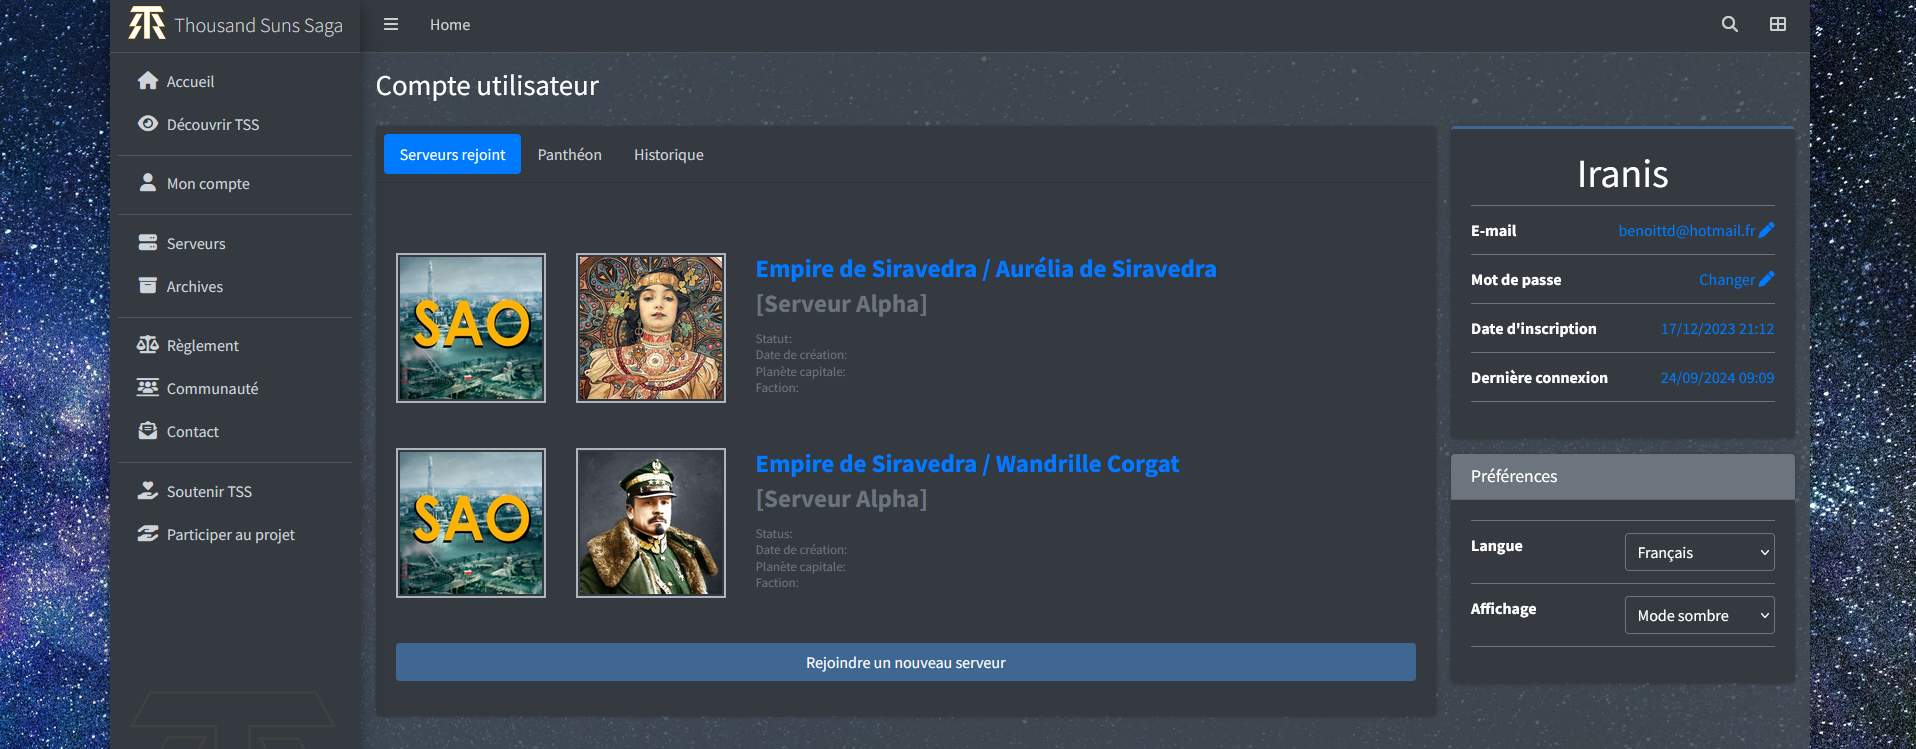
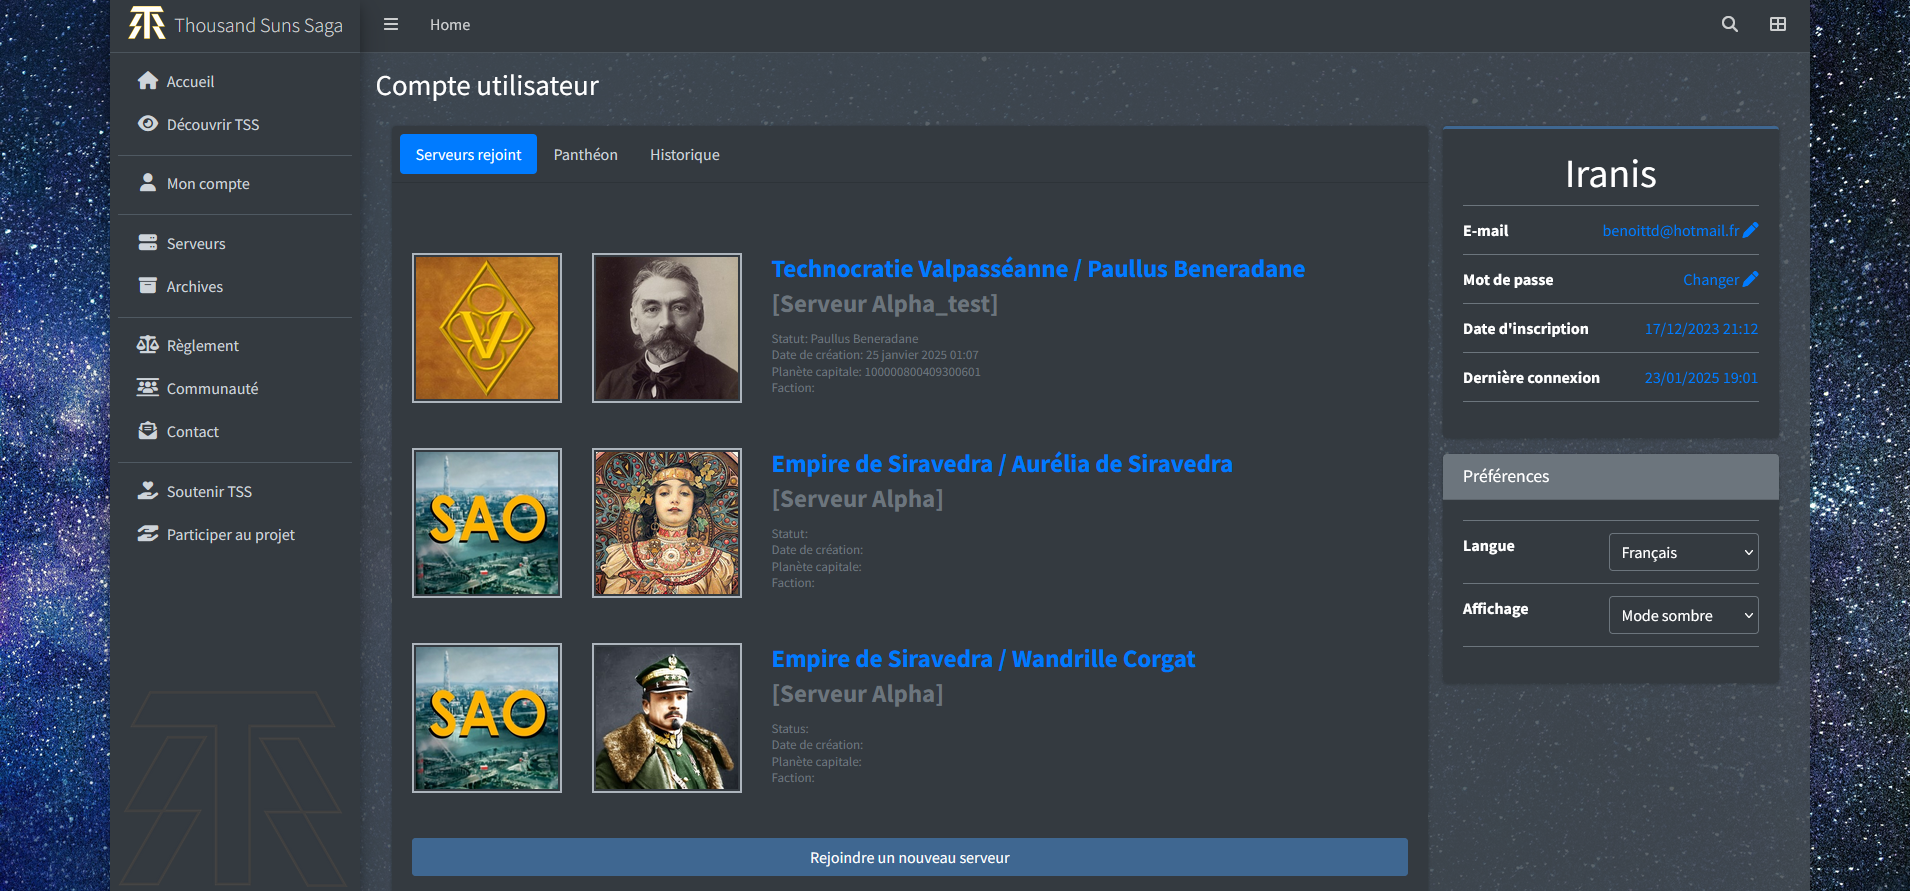
Presentation update

diff --git a/admin_web/templates/game/user_account.html b/admin_web/templates/game/user_account.html
@@ -48,9 +48,9 @@
                       <!-- Post -->
                       <div class="post" style=" margin-top:20px; border-bottom: 0px">
                         <div class="user-block" style="margin-top: 30px;">
-                          <img class=" img-bordered-sm" src="" alt="user image"
+                          <img class=" img-bordered-sm" src="{% static ""%}{{account.flag}}"
                                style="height: 150px; width: 150px; margin-right: 30px;">
-                          <img class=" img-bordered-sm" src="" alt="user image"
+                          <img class=" img-bordered-sm" src="{% static ""%}{{account.portrait}}"
                                style="height: 150px; width: 150px; margin-right: 30px;">
 
                           <span class="username" style="margin-bottom: 10px;">

diff --git a/data/colonies.py b/data/colonies.py
@@ -14,8 +14,9 @@ def get_colonies_controlled_by_commandant(server, commandant_id, add_coo_image=F
     db = client['colonies']
     colonies = list(db.find({"controller": commandant_id}))
 
-    if add_coo_image:
-        for i in range(len(colonies)):
+    for i in range(len(colonies)):
+        colonies[i]['id'] = colonies[i]['_id']
+        if add_coo_image:
             colonies[i]['coordinate_image'] = 'images/placeholder/telluric.png'  # TODO get image from planet table
 
     return colonies
